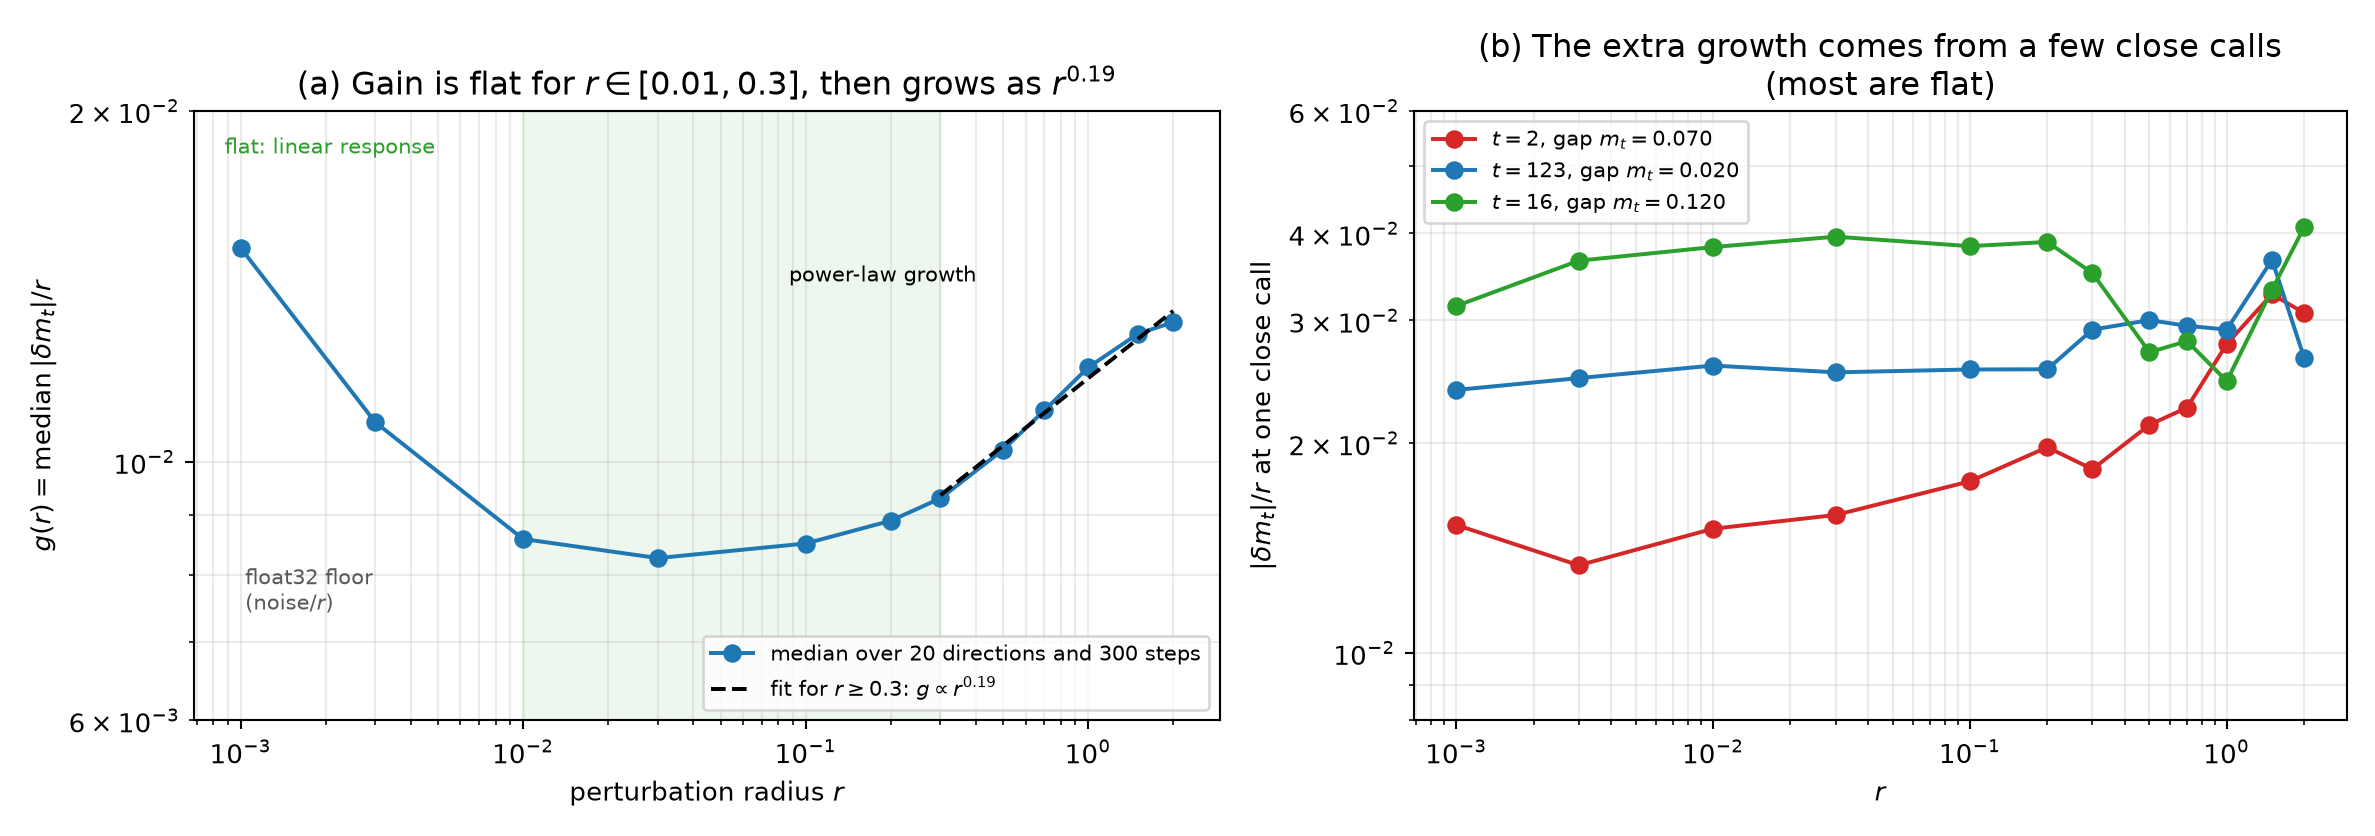
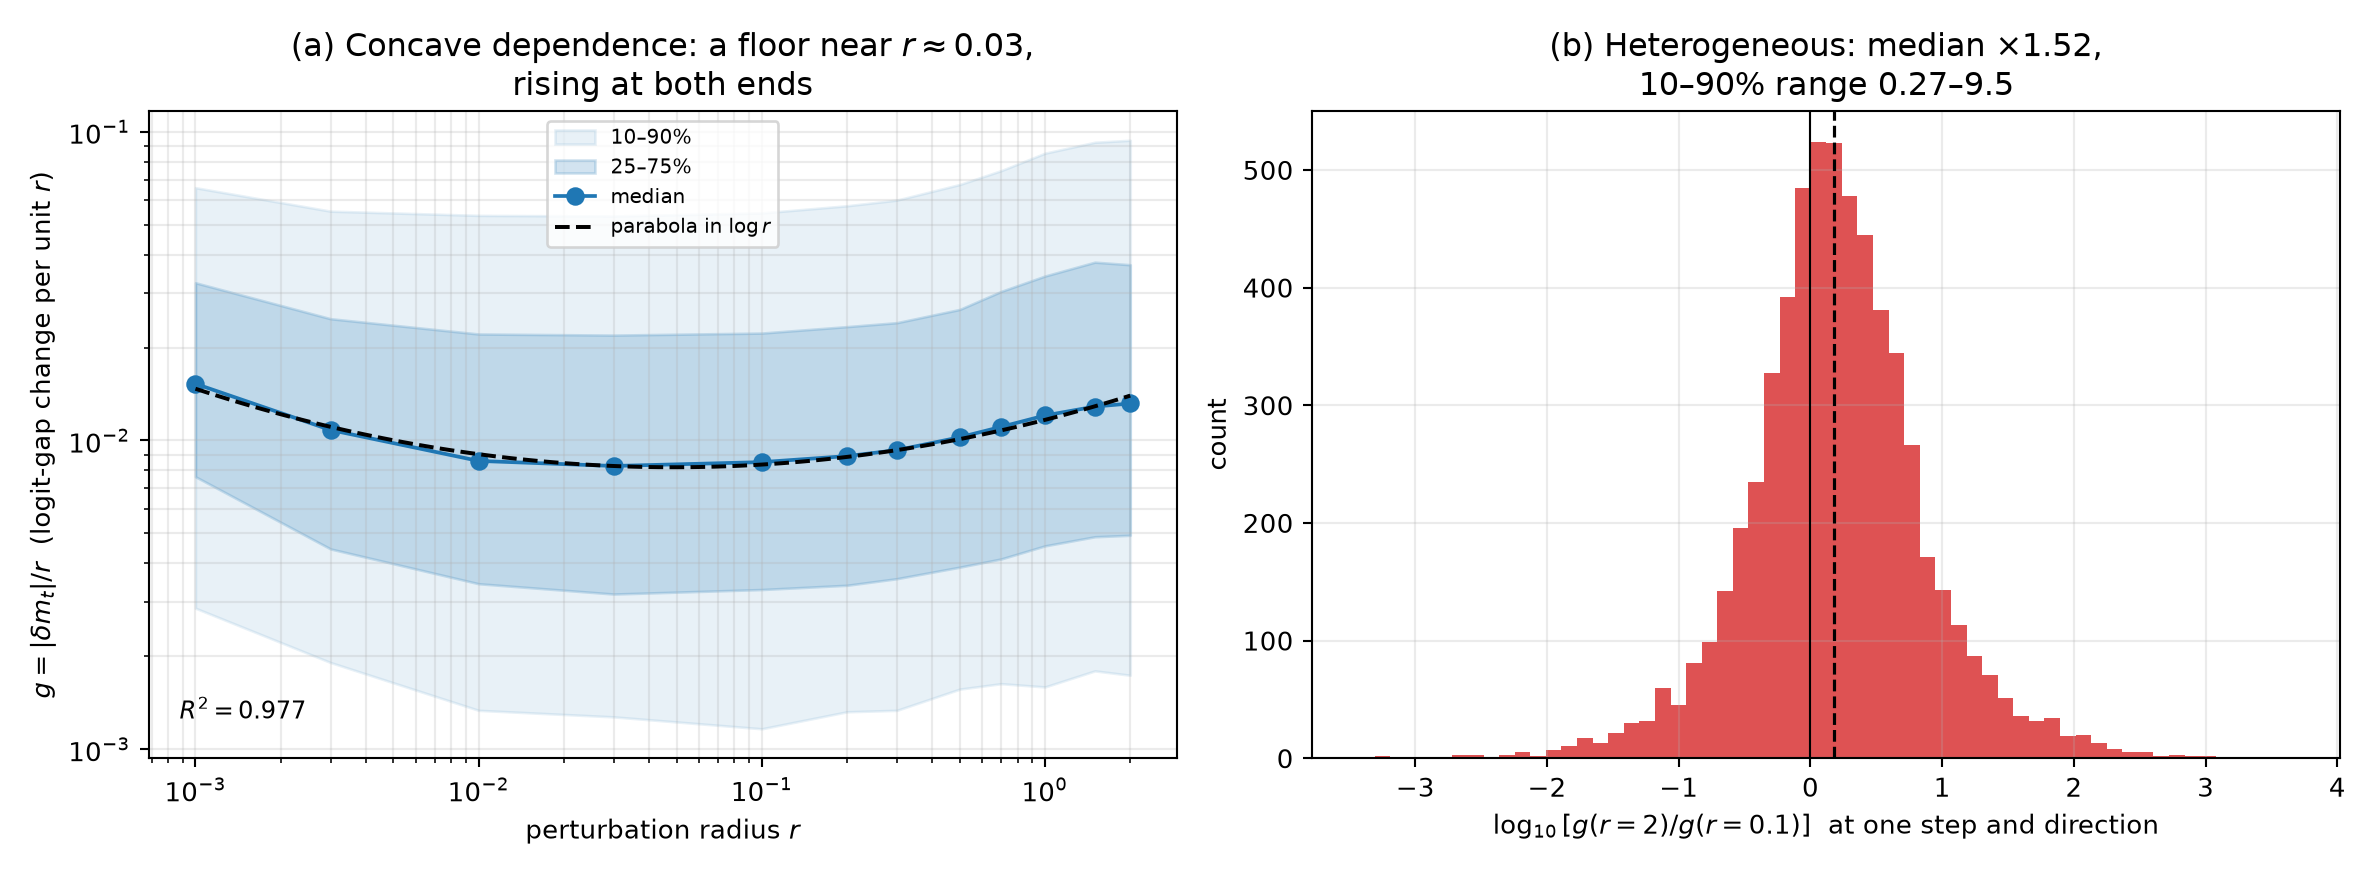
Gain: concave law with percentile bands; layer-probe position statistics

diff --git a/scripts/notebook_fig_gain.py b/scripts/notebook_fig_gain.py
@@ -1,4 +1,4 @@
-"""Clean version of the 'when the linear rule breaks' figure."""
+"""Gain vs radius: concave (U-shaped) dependence with percentile bands."""
 import os
 import numpy as np
 import matplotlib
@@ -10,44 +10,44 @@ OUT = r"C:\Users\hjaca\research\chaos_llm_2026\notebook\figures"
 
 d = np.load(os.path.join(B, "w100_layers", "a1.npz"), allow_pickle=True)
 radii = d["radii"]; dm = d["dm"]; m = d["margins"]
+G = np.abs(dm) / radii[:, None, None]          # [n_r, 20 dirs, 300 t]
 
-g = np.array([np.median(np.abs(dm[i]) / radii[i]) for i in range(len(radii))])
-ref = g[int(np.argmin(np.abs(radii - 0.1)))]
-sel = radii >= 0.3
-beta, acoef = np.polyfit(np.log(radii[sel]), np.log(g[sel]), 1)
+q = {p: np.percentile(G.reshape(len(radii), -1), p, axis=1) for p in [10, 25, 50, 75, 90]}
 
-fig, axs = plt.subplots(1, 2, figsize=(12.5, 4.4), gridspec_kw={"width_ratios": [1.1, 1]})
+fig, axs = plt.subplots(1, 2, figsize=(12.5, 4.6))
 
-# (a) pooled gain vs r
 ax = axs[0]
-ax.loglog(radii, g, "o-", color="tab:blue", label="median over 20 directions and 300 steps")
-ax.axvspan(0.01, 0.3, color="tab:green", alpha=0.08)
-rr = np.logspace(np.log10(0.3), np.log10(2.0), 20)
-ax.loglog(rr, np.exp(acoef) * rr ** beta, "k--",
-          label=rf"fit for $r\geq0.3$: $g\propto r^{{{beta:.2f}}}$")
-ax.set_ylim(0.006, 0.020)
-ax.text(0.03, 0.93, "flat: linear response", transform=ax.transAxes, fontsize=8, color="tab:green")
-ax.text(0.58, 0.72, "power-law growth", transform=ax.transAxes, fontsize=8)
-ax.text(0.05, 0.18, "float32 floor\n(noise$/r$)", transform=ax.transAxes, fontsize=8, color="0.35")
+ax.fill_between(radii, q[10], q[90], color="tab:blue", alpha=0.10, label="10–90%")
+ax.fill_between(radii, q[25], q[75], color="tab:blue", alpha=0.20, label="25–75%")
+ax.loglog(radii, q[50], "o-", color="tab:blue", lw=1.4, label="median")
+lr = np.log(radii)
+coef = np.polyfit(lr, np.log(q[50]), 2)
+rr = np.logspace(np.log10(radii.min()), np.log10(radii.max()), 100)
+ax.loglog(rr, np.exp(np.polyval(coef, np.log(rr))), "k--",
+          label="parabola in $\\log r$")
+pred = np.exp(np.polyval(coef, lr))
+r2 = 1 - np.sum((np.log(q[50]) - np.log(pred)) ** 2) / np.sum((np.log(q[50]) - np.log(q[50]).mean()) ** 2)
+ax.text(0.03, 0.06, f"$R^2={r2:.3f}$", transform=ax.transAxes, fontsize=9)
 ax.set_xlabel(r"perturbation radius $r$")
-ax.set_ylabel(r"$g(r)=\mathrm{median}\,|\delta m_t|/r$")
-ax.set_title("(a) Gain is flat for $r\\in[0.01,0.3]$, then grows as $r^{0.19}$")
-ax.legend(fontsize=8, loc="lower right")
+ax.set_ylabel(r"$g=|\delta m_t|/r$  (logit-gap change per unit $r$)")
+ax.set_title("(a) Concave dependence: a floor near $r\\approx0.03$,\nrising at both ends")
+ax.legend(fontsize=7.5, loc="upper center")
 ax.grid(alpha=0.25, which="both")
 
-# (b) individual near-ties
 ax = axs[1]
-for t, c in [(2, "tab:red"), (123, "tab:blue"), (16, "tab:green")]:
-    v = np.abs(dm[:, :, t]) / radii[:, None]
-    ax.loglog(radii, np.median(v, axis=1), "o-", color=c,
-              label=f"$t={t}$, gap $m_t={m[t]:.3f}$")
-ax.set_ylim(0.008, 0.06)
-ax.set_xlabel(r"$r$")
-ax.set_ylabel(r"$|\delta m_t|/r$ at one close call")
-ax.set_title("(b) The extra growth comes from a few close calls\n(most are flat)")
-ax.legend(fontsize=8, loc="upper left")
-ax.grid(alpha=0.25, which="both")
+ri_lo = int(np.argmin(np.abs(radii - 0.1)))
+ri_hi = int(np.argmin(np.abs(radii - 2.0)))
+ratio = G[ri_hi] / np.maximum(G[ri_lo], 1e-12)
+r = ratio[np.isfinite(ratio) & (ratio > 0) & (ratio < 1e6)]
+ax.hist(np.log10(r), bins=60, color="tab:red", alpha=0.8)
+ax.axvline(0, color="k", lw=0.8)
+med = np.median(r); p10, p90 = np.percentile(r, [10, 90])
+ax.axvline(np.log10(med), color="k", ls="--", lw=1.2)
+ax.set_xlabel(r"$\log_{10}[g(r=2)/g(r=0.1)]$  at one step and direction")
+ax.set_ylabel("count")
+ax.set_title(f"(b) Heterogeneous: median $\\times${med:.2f},\n10–90% range {p10:.2f}–{p90:.1f}")
+ax.grid(alpha=0.25)
 
 fig.tight_layout()
 fig.savefig(os.path.join(OUT, "threshold_gain_scaling.png"), dpi=190)
-print("saved; beta", round(float(beta), 3))
+print("saved; parabola coefficients", coef, "R2", round(float(r2), 3))

diff --git a/scripts/notebook_fig_layerprobe_multi.py b/scripts/notebook_fig_layerprobe_multi.py
@@ -1,0 +1,65 @@
+"""Layer-resolved amplification across positions: statistics."""
+import os
+import numpy as np
+import matplotlib
+matplotlib.use("Agg")
+import matplotlib.pyplot as plt
+
+B = r"C:\Users\hjaca\research\chaos_llm_2026\results\local_data"
+OUT = r"C:\Users\hjaca\research\chaos_llm_2026\notebook\figures"
+
+files = {"pos16": os.path.join(B, "layer_probe", "pos16.npz"),
+         "pos50": os.path.join(B, "layer_probe", "pos50.npz")}
+for p in [32, 75, 100, 150]:
+    f = os.path.join(B, "layer_probe_multi", f"p{p}.npz")
+    if os.path.exists(f):
+        files[f"pos{p}"] = f
+
+# gather the total gain at the last layer, per injection layer and position
+rows = []
+for name, path in files.items():
+    d = np.load(path)
+    dh = d["dh"]; inj = list(d["layers"]); pos = int(d["pos"]); r = float(d["r"])
+    for i, L in enumerate(inj):
+        if L + 1 >= 28:
+            continue
+        vals = np.median(dh[i, :, 27, pos]) / r
+        rows.append((pos, L, float(vals), name))
+
+fig, axs = plt.subplots(1, 2, figsize=(13, 4.6))
+
+ax = axs[0]
+for pos in sorted(set(r[0] for r in rows)):
+    sel = [r for r in rows if r[0] == pos]
+    sel.sort(key=lambda r: r[1])
+    ax.semilogx([r[1] + 1 for r in sel], [r[2] for r in sel], "o-", ms=4,
+                label=f"$s={pos}$")
+ax.axhline(1, color="k", lw=0.8)
+ax.set_xlabel(r"injection layer $L+1$")
+ax.set_ylabel(r"$a(27)/r$ at the injected position")
+ax.set_title("(a) Total gain to the last layer vs injection layer")
+ax.legend(fontsize=7, ncol=2)
+ax.grid(alpha=0.25, which="both")
+
+ax = axs[1]
+pos_unique = sorted(set(r[0] for r in rows))
+means, mins, maxs = [], [], []
+for pos in pos_unique:
+    sel = [r[2] for r in rows if r[0] == pos]
+    means.append(np.mean(sel)); mins.append(np.min(sel)); maxs.append(np.max(sel))
+x = np.arange(len(pos_unique))
+ax.errorbar(x, means, yerr=[np.array(means) - np.array(mins), np.array(maxs) - np.array(means)],
+            fmt="o", capsize=4, color="tab:blue")
+ax.axhline(1, color="k", lw=0.8)
+ax.set_xticks(x); ax.set_xticklabels([f"{p}" for p in pos_unique])
+ax.set_xlabel(r"perturbation position $s$")
+ax.set_ylabel(r"mean $a(27)/r$ over injection layers")
+ax.set_title("(b) Amplification depends on position, not on where in depth you inject")
+ax.grid(alpha=0.25, axis="y")
+
+fig.tight_layout()
+fig.savefig(os.path.join(OUT, "layer_probe_positions.png"), dpi=190)
+print("saved")
+for pos in pos_unique:
+    sel = [r[2] for r in rows if r[0] == pos]
+    print(f"s={pos}: gain range {min(sel):.2f}-{max(sel):.2f}, mean {np.mean(sel):.2f}")

diff --git a/notebook/notebook.md b/notebook/notebook.md
@@ -301,21 +301,41 @@ position (no gain), **the last layers** at a sensitive position. For a prompt-wi
 the response grows with depth because deeper layers see more of the prompt, not because any
 single block amplifies.
 
-### N3. The nonlinearity at large $r$ is a power law
+### N3. The nonlinearity at large $r$ is a U-shaped (concave) law
 
 ![gain scaling](figures/threshold_gain_scaling.png)
 
-**Data.** All 12 radii, 20 directions, 300 steps; teacher-forced margin changes.
+**Data.** All 12 radii, 20 directions, 300 steps; teacher-forced margin changes. $g(r)=|\delta m_t|/r$.
 
-**Panel (a).** $x$: $r$ (log); $y$: $g(r)=\mathrm{median}\,|\delta m_t|/r$, the logit-gap change
-per unit radius. **Panel (b).** Same quantity for three individual close calls.
+**Panel (a).** Median over all (direction, step) pairs, with 25–75% and 10–90% bands, and a
+quadratic fit in $\log r$ (not a power law).
 
-**Reading.** $g$ is **flat at 0.0083–0.0093 for $r\in[0.01,0.3]$** (linear response), rises at
-the float32 floor below $r\approx3\times10^{-4}$ (noise$/r$), and above $r=0.3$ follows a
-**power law $g\propto r^{0.19}$** (×1.55 by $r=2$). The extra growth is not universal: one close
-call ($t=2$) doubles while $t=123$ and $t=16$ stay flat until $r\approx0.7$. This is why a
-threshold measured at small $r$ over-predicts flips at large $r$ (B5), and it is a genuine
-sublinear power law, not an exponential.
+**Reading.** The dependence is **concave**: $g$ falls from $1.5\times10^{-2}$ at $r=10^{-3}$ to a
+floor of $8.3\times10^{-3}$ around $r\approx0.03$, then rises to $1.3\times10^{-2}$ at $r=2$. A
+quadratic in $\log r$ fits with $R^2=0.977$; a single power law cannot describe both ends. The
+left rise is the float32 floor (noise$/r$), the right rise is genuine superlinearity.
+
+**Panel (b).** Distribution of $g(2)/g(0.1)$ over all (step, direction) pairs.
+
+**Reading.** The superlinearity is **heterogeneous**: median ×1.52, but the 10–90% range is
+0.27–9.5. It is a global tendency, not a property of a few close calls. Consequence: a threshold
+measured at small $r$ is unbiased only up to $r\approx0.3$; beyond that the correction is
+step-dependent and cannot be captured by one exponent.
+
+### N2b. Amplification depends on position, not on injection depth
+
+![layer probe positions](figures/layer_probe_positions.png)
+
+**Data.** Layer probe at six positions ($s=16,32,50,75,100,150$), 4–6 directions, $r=0.05$.
+
+**Panel (a).** For each position, the total gain $a(27)/r$ as a function of the injection layer.
+**Panel (b).** Mean over injection layers, with the min–max range.
+
+**Reading.** Only $s=16$ amplifies: mean gain **2.69** (range 1.29–3.37). Every other position has
+a mean gain between 0.84 and 1.08 — no amplification. $s=16$ is the sixth-smallest margin of the
+300 steps ($m=0.12$), so a near-tie position is also the one where a hidden-state perturbation
+grows. Caveat: six positions is a small sample; the rank correlation between margin and gain is
+suggestive, not conclusive.
 
 ### N4. The finite-time rate: positive, then negative
 
